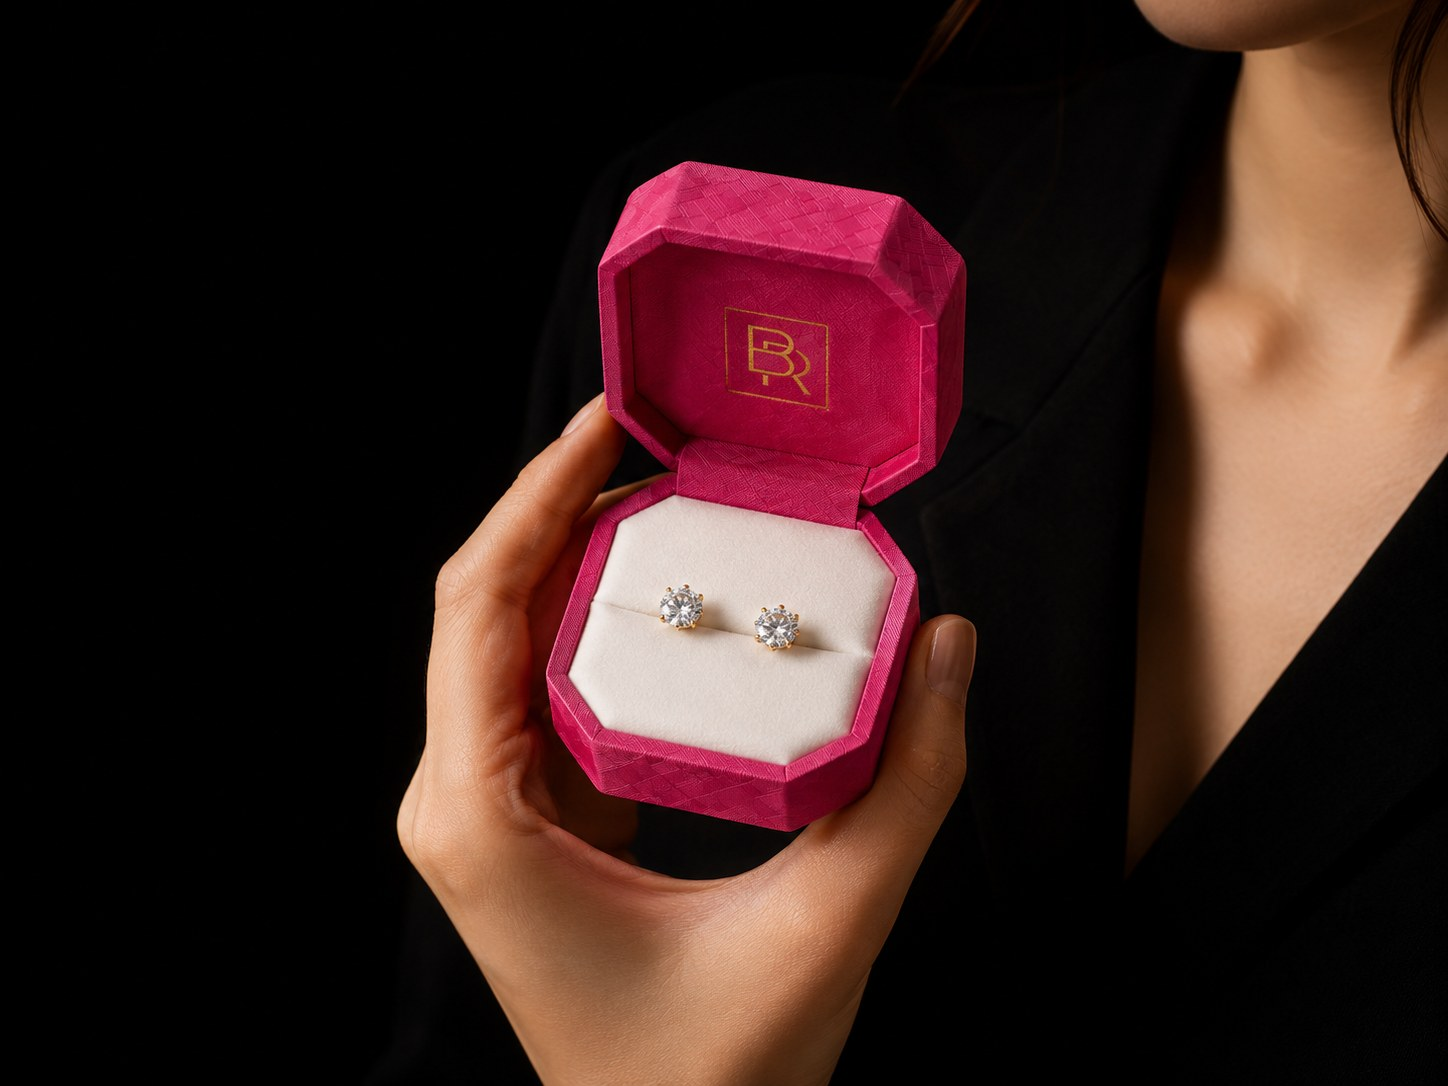
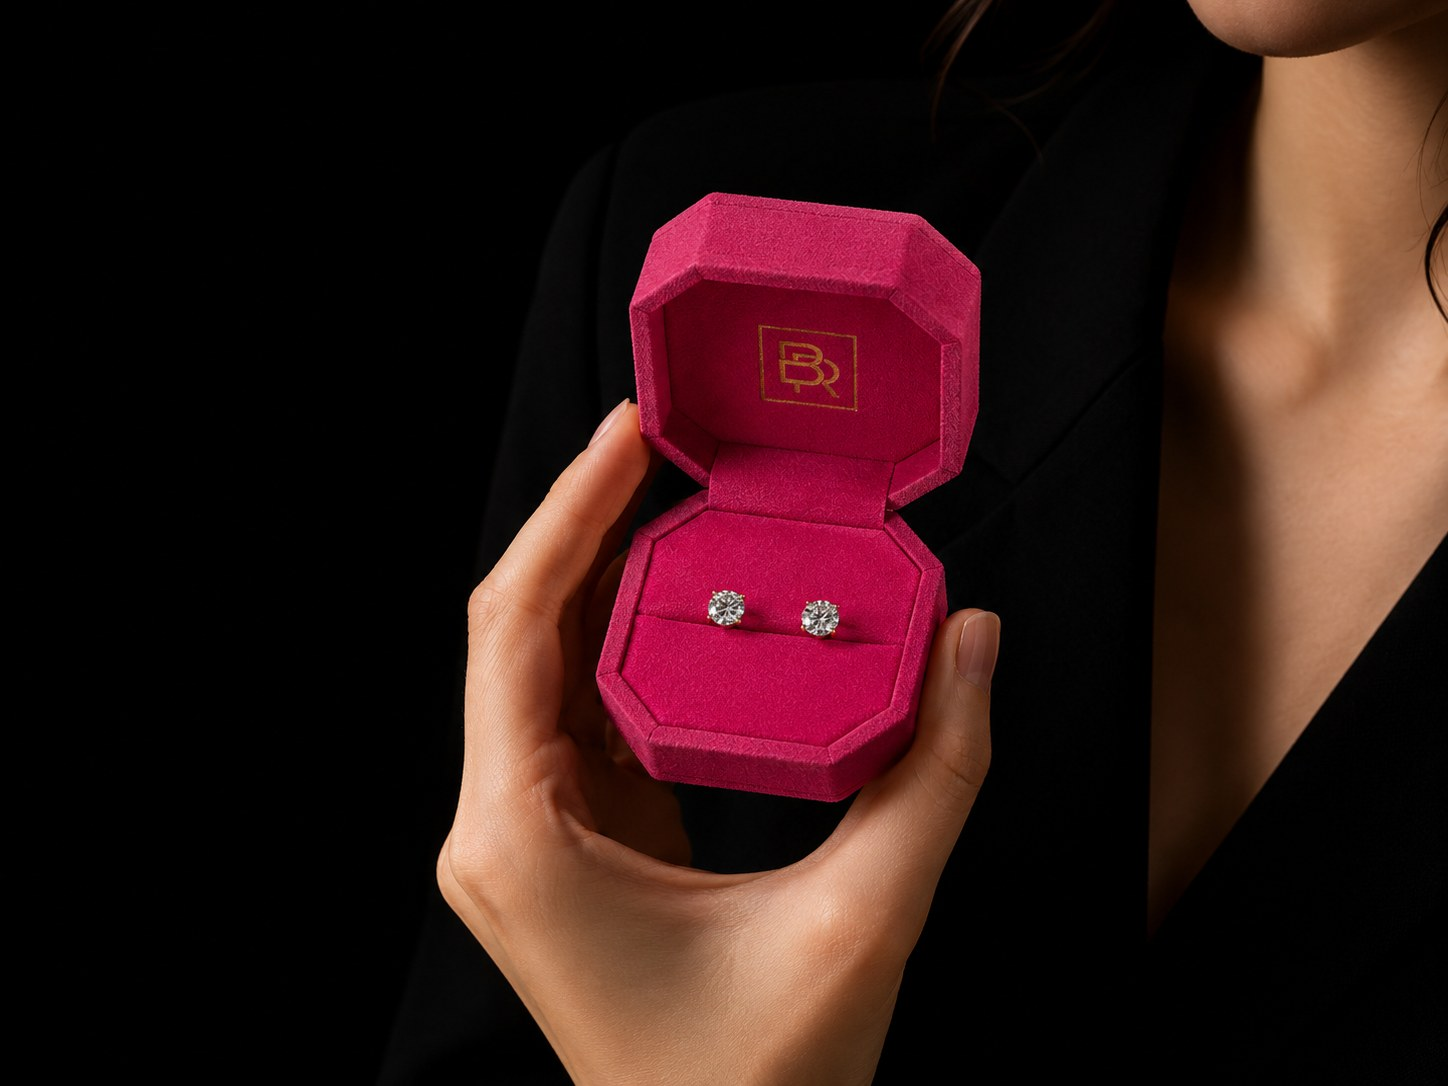
Update hero product image to v2 (pink interior lining)
The first generation had a white/cream velvet interior — user
requested the inside of the open box match the pink exterior.
Regenerated via DALL-E with explicit 'pink-on-pink' lining
constraint; v2 now shows the box opening to reveal pink suede
inside, with both 5-6mm round brilliant studs in K18 yellow
gold prong settings centred on it.

- Replace pierce-assets/hero-product.jpg with the new v2 source
  (1448x1086 PNG -> 1600px-cap JPEG quality 88, 126KB).
- Bump <img> src to ?v=2 so browsers fetch the new bytes
  instead of serving the old white-lining version from cache.

Changed region(s): [[0.2486, 0.1519, 0.7148, 1.0], [0.7769, 0.0, 1.0, 0.8204], [0.6526, 0.0, 0.6837, 0.0608]]

diff --git a/pierce-release.html b/pierce-release.html
@@ -743,7 +743,7 @@ body::before{
 
     <div class="hero__visual">
       <div class="hero__product">
-        <img src="pierce-assets/hero-product.jpg" alt="ピンクオクタゴンボックスに収められたラボグロウンダイヤモンドピアス" loading="eager" decoding="sync">
+        <img src="pierce-assets/hero-product.jpg?v=2" alt="ピンクオクタゴンボックスに収められたラボグロウンダイヤモンドピアス" loading="eager" decoding="sync">
       </div>
 
       <div class="hero__cert">
